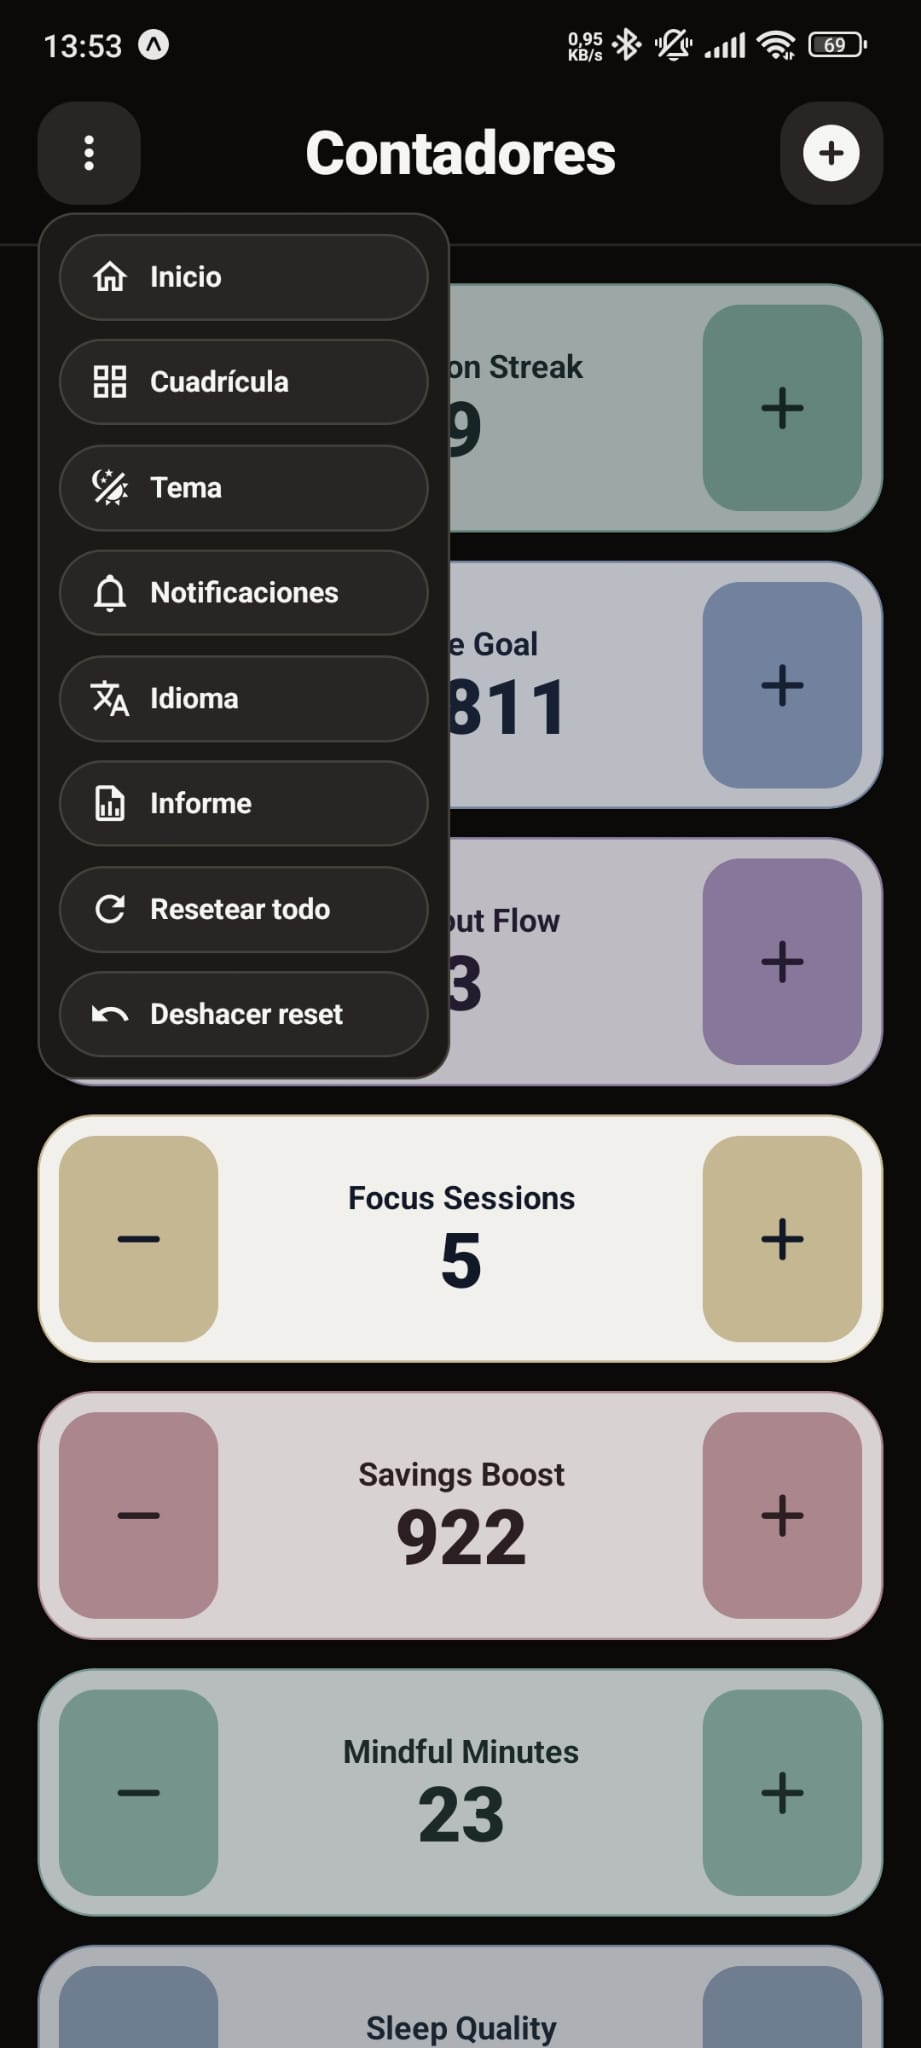
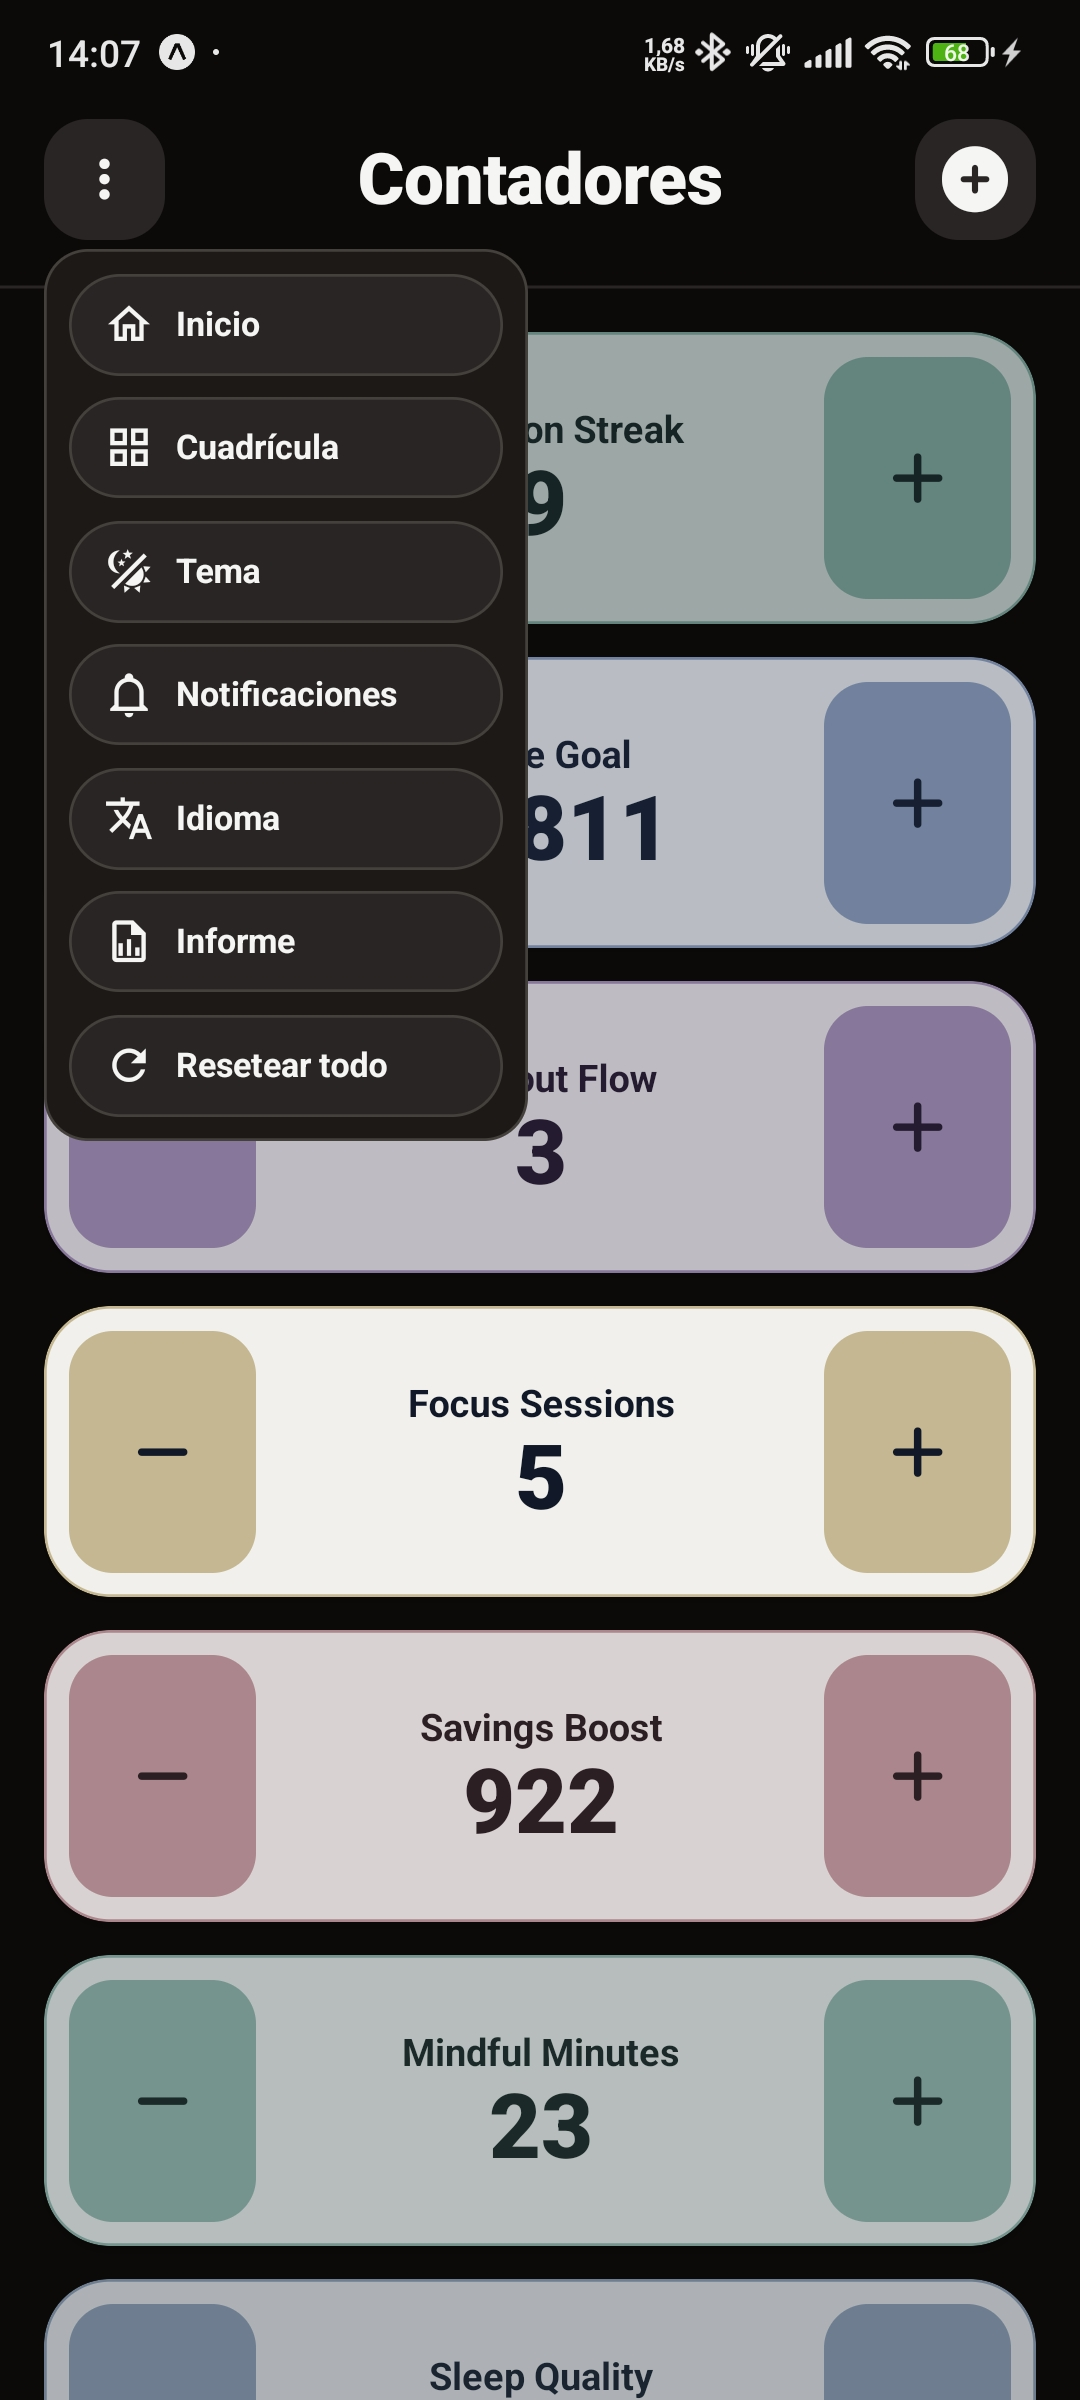
New version 1.1.2

Changed region(s): [[0.0304, 0.4688, 0.4864, 0.5312], [0.608, 0.0, 0.9425, 0.0312], [0.0304, 0.0, 0.1824, 0.0312]]

diff --git a/components/Topbar.jsx b/components/Topbar.jsx
@@ -11,7 +11,7 @@ import { useCounter } from "../lib/counterContext";
 import { SUPPORTED_LANGUAGES, useI18n } from "../lib/i18n";
 import { useToast } from "../lib/toastProvider";
 import { DEFAULT_LAYOUT_MODE, GRID_LAYOUT_MODE } from "../lib/layoutMode";
-import { getArchivedCounters, getConfig, getCounters, getCountersValues, resetAllCounters, undoResetAllCounters, updateConfig } from "../lib/db/database";
+import { getArchivedCounters, getConfig, getCounters, getCountersValues, resetAllCounters, updateConfig } from "../lib/db/database";
 import { buildYearEndGroupedReport, buildYearEndReportText, buildYearSectionText, toggleExpandedReportYear } from "../lib/reporting";
 import { cancelCounterReminder, requestNotificationPermission, scheduleCounterReminder } from "../lib/notifications";
 import { useColorScheme } from "nativewind";
@@ -34,7 +34,6 @@ export function Topbar() {
   const isHomePath = path === "/";
   const isCounterDetailPath = regex.test(path);
   const [isMenuOpen, setIsMenuOpen] = useState(false);
-  const [topbarHeight, setTopbarHeight] = useState(insets.top + 72);
   const [isLanguageModalVisible, setIsLanguageModalVisible] = useState(false);
   const [isNotificationsModalVisible, setIsNotificationsModalVisible] = useState(false);
   const [notificationsEnabled, setNotificationsEnabled] = useState(false);
@@ -166,16 +165,6 @@ export function Topbar() {
     });
   };
 
-  const handleUndoReset = () => {
-    setIsMenuOpen(false);
-    const wasRestored = undoResetAllCounters();
-    if (!wasRestored) {
-      toast.error(t("alert.resetError"), t("alert.resetAllFailed"));
-      return;
-    }
-    triggerRefresh();
-  };
-
   const handleResetAll = () => {
     setIsMenuOpen(false);
     Alert.alert(
@@ -243,7 +232,6 @@ export function Topbar() {
     <View
       className="flex-row items-center justify-between px-4 pb-4 border-b bg-stone-100 dark:bg-stone-950 border-stone-200 dark:border-stone-800"
       style={{ paddingTop: insets.top + 10, minHeight: insets.top + 72 }}
-      onLayout={(e) => setTopbarHeight(e.nativeEvent.layout.height)}
     >
       <View className="items-start justify-center w-11 h-11">
         <Pressable
@@ -383,15 +371,6 @@ export function Topbar() {
                 <Text className="ml-2 text-sm font-bold text-stone-900 dark:text-stone-100">{t("topbar.resetAll")}</Text>
               </Pressable>
 
-              <Pressable
-                onPress={handleUndoReset}
-                className="flex-row items-center px-3 py-2 mt-2 rounded-full border border-stone-300 dark:border-stone-700 bg-stone-100 dark:bg-stone-800"
-                accessibilityRole="button"
-                accessibilityLabel={t("topbar.undoReset")}
-              >
-                <MaterialCommunityIcons name="undo" size={18} color={iconColor} />
-                <Text className="ml-2 text-sm font-bold text-stone-900 dark:text-stone-100">{t("topbar.undoReset")}</Text>
-              </Pressable>
             </Pressable>
           </View>
         </Pressable>

diff --git a/lib/notifications.js b/lib/notifications.js
@@ -9,7 +9,6 @@ let Notifications = null;
 
 if (!isExpoGo) {
   try {
-    // eslint-disable-next-line @typescript-eslint/no-require-imports
     Notifications = require("expo-notifications");
     Notifications.setNotificationHandler({
       handleNotification: async () => ({

diff --git a/FUNCTIONAL_SPEC.md b/FUNCTIONAL_SPEC.md
@@ -13,6 +13,11 @@
 9. Users can open an annual report with year-end maximum values, copy it, and export it as PDF.
 10. Users can reorder counters by long-pressing a counter and dragging it directly to a new position.
 11. Users can switch the home view between a list and a two-column grid from the topbar menu.
+12. Users can reset a single counter to 0 from the edit form without losing its history.
+13. Users can reset all counters to 0 at once from the topbar menu without losing history.
+14. Users can undo a same-day reset to restore counter values from the topbar menu.
+15. Users can navigate to the home screen by tapping the app title or the Home item in the topbar menu.
+16. Users can schedule a daily reminder notification to update their counters (requires a development build).
 
 ## Validation and input rules
 
@@ -40,6 +45,9 @@
 7. Display order is 0-indexed and counters are sorted by displayOrder on retrieval.
 8. Layout mode is persisted in configuration and restored on startup.
 9. Development preview counters are seeded only in development builds and are purged in production builds.
+10. Counter reset writes a 0 value as a new history entry for the current day; previous history is preserved.
+11. Undo reset removes the current day's 0 entry and restores each counter to its most recent prior value. Only reliable if performed on the same day as the reset and before any further changes.
+12. In Expo Go, development preview counters are always re-seeded on every app launch to restore test state.
 
 ## UI state behavior
 
@@ -54,6 +62,9 @@
 9. Annual report opens in a modal with immediate loading feedback.
 10. Annual report content scrolls inside the modal without overflowing the screen.
 11. Annual report year sections are collapsed by default and expand on tap.
+12. Topbar menu order: Home, Grid, Theme, Language, Report, Reset all, Undo reset.
+13. Reset icon appears in the top-right corner of the edit form, aligned with the title and subtitle.
+14. Status bar text color adapts to light and dark theme across all screens.
 
 ## Quality gates
 
@@ -72,8 +83,8 @@
 - Tests: npm run test
 - Expo health checks: npx expo-doctor
 - Preview build: eas build -p android --profile preview
-- Production Android build: npx eas-cli@latest build --platform android --profile production --non-interactive --message "Release 1.1.0"
-- Production Android build and submit: npx eas-cli@latest build --platform android --profile production --auto-submit --non-interactive --message "Release 1.1.0"
+- Production Android build: npx eas-cli@latest build --platform android --profile production --non-interactive --message "Release 1.1.2"
+- Production Android build and submit: npx eas-cli@latest build --platform android --profile production --auto-submit --non-interactive --message "Release 1.1.2"
 
 ## Maintenance baseline
 
@@ -81,3 +92,4 @@
 2. Dependency security baseline requires npm audit total vulnerabilities to remain at 0.
 3. Any dependency update must preserve lint, tests, and expo-doctor passing status.
 4. Release 1.1.0 uses Expo app version `1.1.0` and Android `versionCode` `8`.
+5. Release 1.1.2 uses Expo app version `1.1.2` and Android `versionCode` `10`.

diff --git a/readme.md b/readme.md
@@ -1,6 +1,6 @@
 # Counters
 
-Current release target: 1.1.1
+Current release target: 1.1.2
 
 ## Documentation
 
@@ -29,7 +29,7 @@ This project intentionally keeps exactly three top-level documentation files:
 ## Build
 
 - Preview build: `eas build -p android --profile preview`
-- Production Android bundle: `npx eas-cli@latest build --platform android --profile production --non-interactive --message "Release 1.1.1 - Patch update"`
+- Production Android bundle: `npx eas-cli@latest build --platform android --profile production --non-interactive --message "Release 1.1.2 - Patch update"`
 - Local: `npx expo prebuild --platform android --clean`
 `npx expo run:android`
 
@@ -37,19 +37,29 @@ This project intentionally keeps exactly three top-level documentation files:
 ## Release readiness
 
 - Version metadata:
-	- `package.json`: `1.1.1`
-	- `app.json` Expo version: `1.1.1`
-	- `app.json` Android `versionCode`: `9`
+	- `package.json`: `1.1.2`
+	- `app.json` Expo version: `1.1.2`
+	- `app.json` Android `versionCode`: `10`
 - Local validation before release:
 	- `npm run lint`
 	- `npm run test`
 	- `npx expo-doctor`
 - Play Store submission:
-	- Build and auto-submit: `npx eas-cli@latest build --platform android --profile production --auto-submit --non-interactive --message "Release 1.1.1 - Patch update"`
+	- Build and auto-submit: `npx eas-cli@latest build --platform android --profile production --auto-submit --non-interactive --message "Release 1.1.2 - Patch update"`
 	- Manual submit if needed: `npx eas-cli@latest submit --platform android --profile production`
 - Deobfuscation support:
 	- Production builds keep `android/app/build/outputs/mapping/release/mapping.txt` as an EAS build artifact for Play Console crash/ANR deobfuscation uploads.
 - Current EAS submit profile targets the Play internal track first.
+
+## Release notes 1.1.2
+
+- Added counter reset: reset a single counter to 0 from the edit form (icon in top-right corner) without losing its history.
+- Added reset all: reset all counters to 0 at once from the topbar menu without losing history.
+- Added undo reset: recover counter values after a same-day reset from the topbar menu.
+- Added home navigation: tap the app title or the Home menu item to return to the home screen from any screen.
+- Reordered topbar menu: Grid, Theme, Language, Report, Reset all, Undo reset.
+- Fixed status bar text color adapting to light and dark theme across all screens.
+- Fixed app loading in Expo Go after expo-notifications compatibility changes for SDK 53+.
 
 ## Release notes 1.1.1
 
@@ -57,6 +67,9 @@ This project intentionally keeps exactly three top-level documentation files:
 
 ## Recent updates
 
+- Added counter reset (single and all) with history preservation and same-day undo.
+- Added home navigation shortcut via app title tap and topbar menu item.
+- Fixed status bar theme adaptation and Expo Go startup compatibility.
 - Migrated project to Expo SDK 54 with dependency alignment.
 - Applied dependency security remediation and verified zero npm audit vulnerabilities.
 - Added English and Spanish UI localization based on device language.

diff --git a/ARCHITECTURE.md b/ARCHITECTURE.md
@@ -7,6 +7,7 @@
 - NativeWind for styling and theme support
 - Expo Print + Expo Sharing for annual report export
 - Expo Clipboard for report copy actions
+- Expo Notifications for daily counter reminders (development build only)
 
 ## App flow
 
